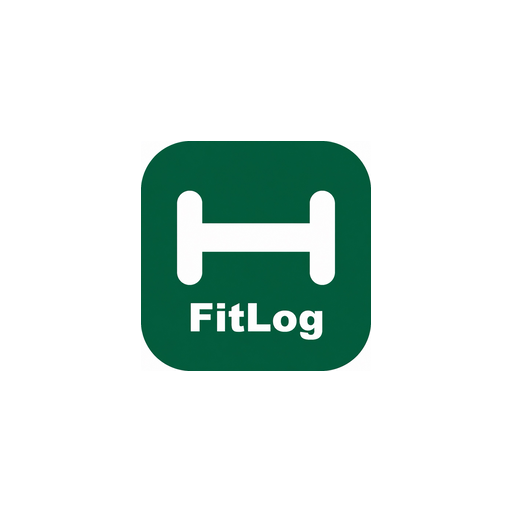
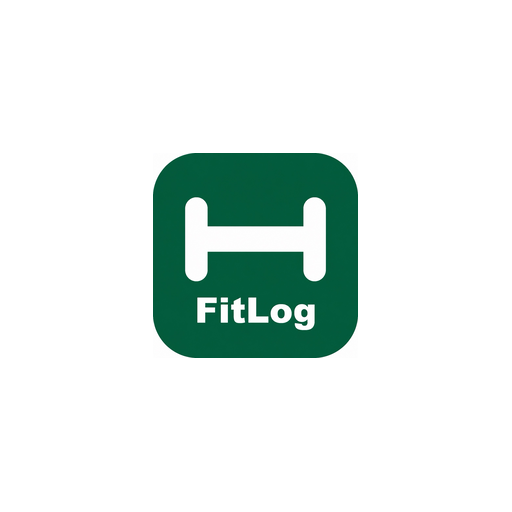
fix: 푸시 알림 읽음 처리 및 Android 아이콘 수정
- onNotificationOpenedApp/getInitialNotification에서 read-all API 호출
- android-icon-foreground.png 투명 배경으로 교체 및 크기 조정 (205px/512px)

Changed region(s): [[0.25, 0.25, 0.75, 0.75], [0.4062, 0.375, 0.6562, 0.5625]]

diff --git a/frontend/app/_layout.tsx b/frontend/app/_layout.tsx
@@ -7,6 +7,7 @@ import { Animated, Text, TouchableOpacity } from "react-native";
 import { SafeAreaProvider, useSafeAreaInsets } from "react-native-safe-area-context";
 import { GestureHandlerRootView } from "react-native-gesture-handler";
 import { saveFcmToken } from "../utils/fcm";
+import { API_URL } from "../constants/api";
 
 async function initFCM() {
   try {
@@ -106,9 +107,21 @@ export default function RootLayout() {
   useEffect(() => {
     initFCM();
 
+    const markAllNotificationsRead = async () => {
+      try {
+        const jwt = await AsyncStorage.getItem("jwt");
+        if (!jwt) return;
+        await fetch(`${API_URL}/api/notifications/read-all`, {
+          method: "PUT",
+          headers: { Authorization: `Bearer ${jwt}` },
+        });
+      } catch {}
+    };
+
     const unsubscribeBackground = messaging().onNotificationOpenedApp((remoteMessage) => {
       const type = remoteMessage.data?.type as string | undefined;
       const date = remoteMessage.data?.date as string | undefined;
+      markAllNotificationsRead();
       if (type) navigateByType(type, date);
     });
 
@@ -116,6 +129,7 @@ export default function RootLayout() {
       if (!remoteMessage) return;
       const type = remoteMessage.data?.type as string | undefined;
       const date = remoteMessage.data?.date as string | undefined;
+      markAllNotificationsRead();
       if (type) navigateByType(type, date);
     });
 
